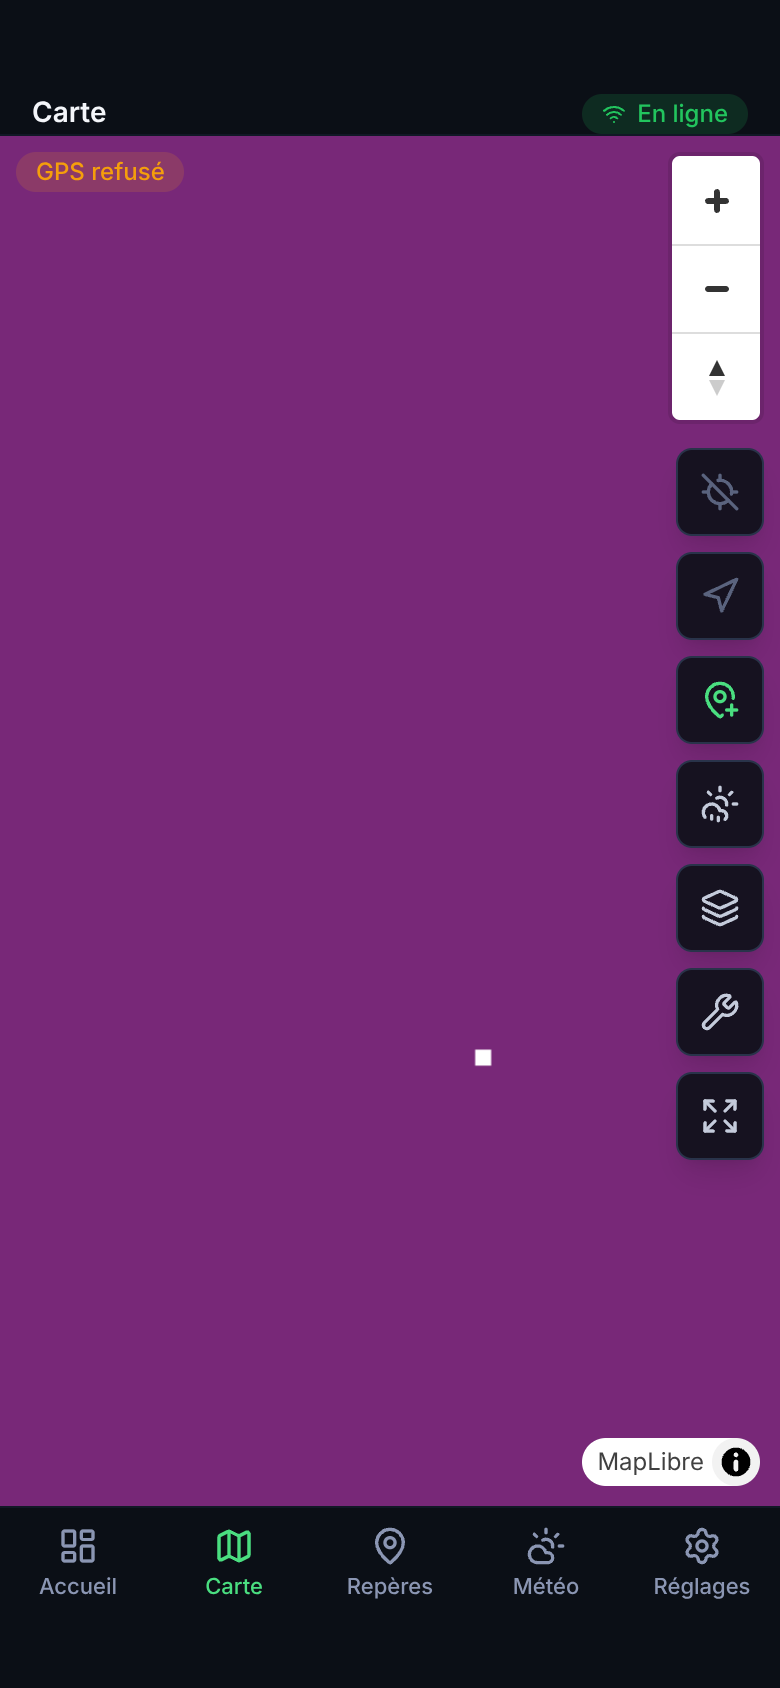
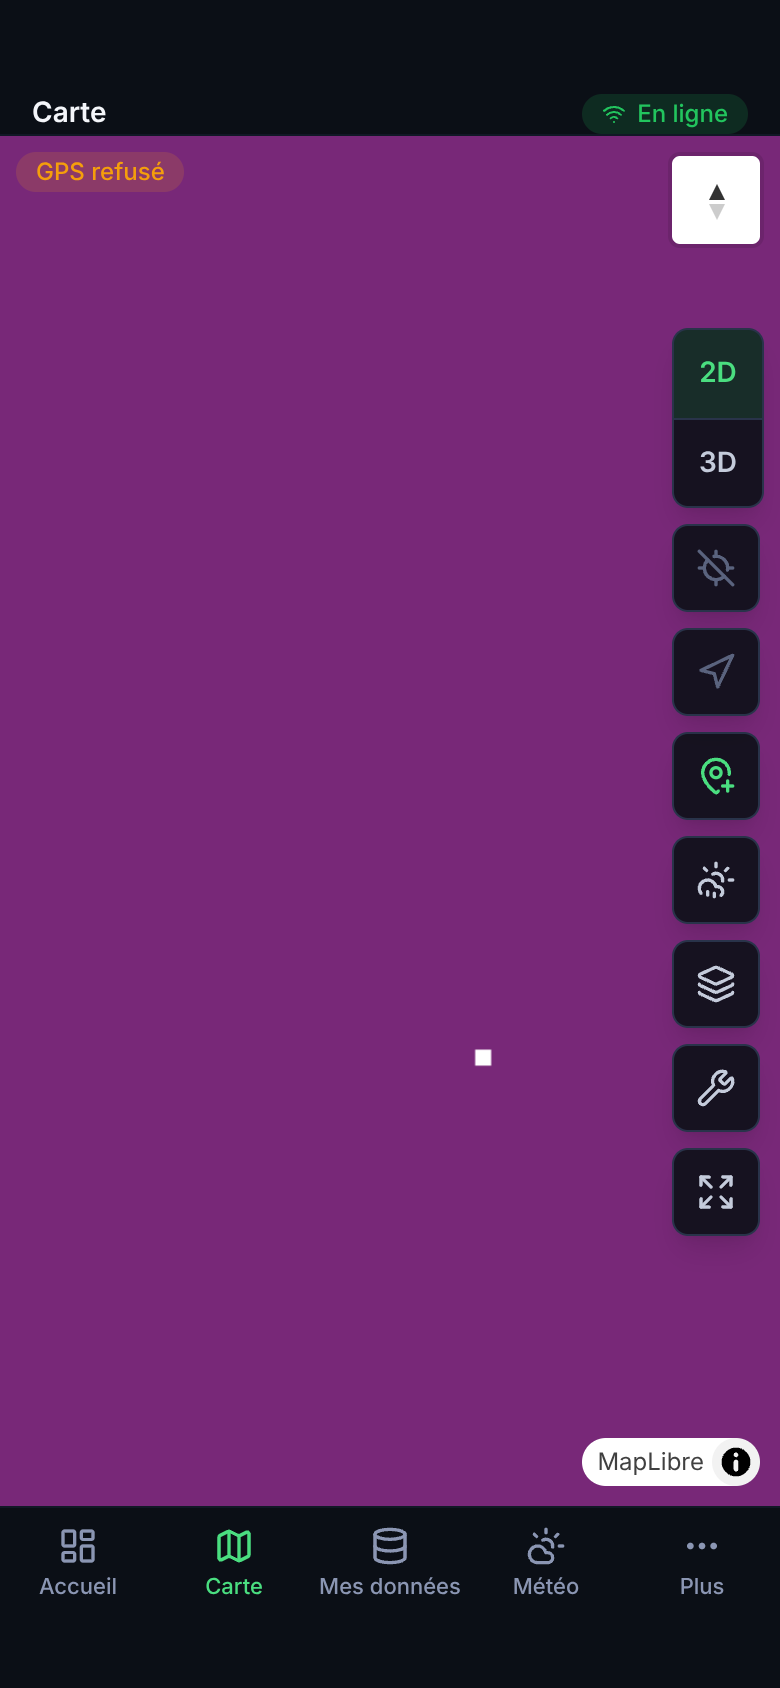
fix: map rail starts under the compass and reserves less bottom space so short landscape screens do not cover side panels; docs
Claude-Session: https://claude.ai/code/session_01LYrp3YCXKY4bqCwVL3J1ng

Changed region(s): [[0.8615, 0.0924, 0.9846, 0.7393], [0.4, 0.8934, 0.5846, 0.955], [0.8308, 0.8934, 0.9538, 0.955]]

diff --git a/src/components/map-tools/MapTools.tsx b/src/components/map-tools/MapTools.tsx
@@ -138,7 +138,7 @@ export function MapToolRail({ setHost }: MapToolRailProps) {
     <div
       ref={setHost}
       data-testid="map-tool-rail"
-      className="absolute top-[var(--rail-top)] right-2 z-10 flex max-h-[calc(100%-var(--rail-top)-3.5rem)] flex-col flex-wrap-reverse content-start items-end gap-2 [--rail-top:4.5rem] pointer-coarse:[--rail-top:6rem]"
+      className="absolute top-[var(--rail-top)] right-2 z-10 flex max-h-[calc(100%-var(--rail-top)-3rem)] flex-col flex-wrap-reverse content-start items-end gap-2 [--rail-top:4rem] pointer-coarse:[--rail-top:4rem]"
     />
   )
 }

diff --git a/docs/REFONTE_FONCTIONS.md b/docs/REFONTE_FONCTIONS.md
@@ -1,0 +1,28 @@
+# Refonte : où est passée chaque fonction ?
+
+Aucune fonction n'a été supprimée, aucune donnée ni coordonnée n'a été
+modifiée, la base Dexie n'a pas changé de version (DeerTracker ajoute des
+champs facultatifs aux observations existantes).
+
+| Fonction                                 | Avant                                    | Après                                                                 |
+| ---------------------------------------- | ---------------------------------------- | --------------------------------------------------------------------- |
+| Accueil                                  | Accueil terrain                          | Accueil (+ cartes « Sur le terrain » et « Projet et progression »)    |
+| Points de repère, traces, territoires    | Barre / menu secondaire                  | Mes données › Repères, Traces, Territoires (même page, ancres)        |
+| Recherche de sang                        | Outils de la carte, page Repères         | Outils › Recherche de sang ; Mes données ; carte « Sur le terrain »   |
+| Caméra (aide visuelle, photos)           | Dans la recherche de sang et les repères | Inchangée là ; accès rapide : Journal et photos, recherche de sang    |
+| Journal                                  | Menu                                     | Mes données › Journal et observations                                 |
+| DeerTracker (nouveau)                    | —                                        | Mes données › DeerTracker                                             |
+| Météo, radar, vent                       | Page Météo + outils de carte             | Météo (nouveau panneau Vent) ; radar et vent animé toujours en Outils |
+| Potentiel / comparateur / analyse        | Menu, outils de carte                    | Plus › Analyse ; outils de carte inchangés                            |
+| Soleil et lune                           | Menu                                     | Plus › Soleil et lune                                                 |
+| Assistant (calculs, pas d'IA générative) | Menu                                     | Plus › Assistant (état « IA générative non activée » conservé)        |
+| Phases / avancement                      | À propos                                 | Plus › Projet et progression (à propos y renvoie)                     |
+| Réglages, aide, confidentialité          | Menu                                     | Plus › Réglages / Aide / Confidentialité / À propos                   |
+| Sauvegarde ZIP, GPX                      | Réglages                                 | Inchangé (Réglages) ; DeerTracker inclus                              |
+| 2D / 3D                                  | Outils › Mode d'affichage                | Rail droit de la carte : « 2D » « 3D »                                |
+| Relief (exagération 1×–10×)              | Outils, à côté du 2D/3D                  | Rail droit, visible en 3D seulement, étiqueté « Relief »              |
+| Zoom + / −                               | Boutons permanents sur la carte          | Outils › Zoom ; pincement, double-tape, clavier                       |
+| Boussole / nord                          | Contrôle MapLibre                        | Conservée (zoom retiré du contrôle)                                   |
+| Fonds de carte, superpositions           | Couches                                  | Couches (inchangé, note vers les autres couches)                      |
+| Forêt, LiDAR, territoires (Québec)       | Panneau plein écran inférieur            | Outils › Couches du Québec : dans la carte, hauteur bornée, repliable |
+| Erreur de couche                         | Message générique                        | Message typé + « Réessayer » (3 essais au plus)                       |

diff --git a/docs/VALIDATION.md b/docs/VALIDATION.md
@@ -272,3 +272,13 @@ Dans `e2e/backup.spec.ts`, `setInputFiles` de Playwright n'a pas déclenché le
 transmet donc les octets réels du .zip téléchargé via `DataTransfer`. Le
 sélecteur de fichiers du système n'est **pas** exercé : à vérifier sur iPhone
 (« Restaurer une sauvegarde » → choisir le .zip dans Fichiers).
+
+## Refonte visuelle, menus, cartes, vent et DeerTracker
+
+Réellement exécuté sur la branche `feat/refonte-visuelle-deertracker` (Node 24) :
+
+- typecheck, lint, Prettier, tests unitaires (181 fichiers, 1 700 tests) et build : voir le rapport de la PR pour les chiffres du dernier commit.
+- E2E `e2e/refonte.spec.ts` aux 8 tailles (320×568, 375×812, 390×844, 430×932, 568×320, 844×390, 768×1024, 1440×900) : contrôles de carte visibles, dans l'écran, non recouverts, sans chevauchement ; pas de bouton de zoom permanent ; zoom dans Outils ; 2D/3D + relief ; panneau des couches borné ; pages Accueil / Données / Météo (vent) / DeerTracker / Projet / Plus sans débordement horizontal.
+- Un défaut réel trouvé par ce test et corrigé : à 568×320 le réglage « Relief » dépassait de la colonne de droite ; en paysage court, 2D/3D et Relief passent en rangée.
+
+Limites : Chromium uniquement, carte, GPS et fournisseurs SIMULÉS. Ce n'est **pas** une validation iPhone et cela ne valide aucun fournisseur de cartes réel. Les couches WMS Québec (forêt / LiDAR) restent « non validées » (voir `docs/SOURCES_QUEBEC.md`) : l'erreur est désormais expliquée et bornée, pas corrigée à la source. Les captures « avant » sont celles de l'iPhone de l'utilisateur ; les captures « après » (`docs/validation/refonte-*.png`) sont simulées.

diff --git a/docs/ROADMAP_STATUS.md b/docs/ROADMAP_STATUS.md
@@ -30,3 +30,7 @@ Livré (voir `CHANGELOG.md`) : types et couleurs de traces, sessions de recherch
 reprise, sauvegarde/GPX, aide, caméra **expérimentale**. Non validé : iPhone/Safari réel, GPS réel, caméra et lampe
 réelles, mode avion réel. La caméra n'affirme aucun taux de détection ; elle ne remplace ni une aide qualifiée ni un
 conducteur de chien de sang.
+
+## Refonte visuelle, menus, cartes, vent et DeerTracker
+
+Implémenté et testé automatiquement (unitaires + E2E Chromium simulé) : navigation à 5 entrées, Projet et progression, DeerTracker, contrôles de carte (2D/3D, relief, zoom dans Outils), erreurs de couche typées avec réessai borné, panneau Vent, accueil « Sur le terrain ». Validation iPhone réelle : **non faite**. Priorités inchangées : voir la page Projet et progression (`src/features/about/roadmap.ts`).
